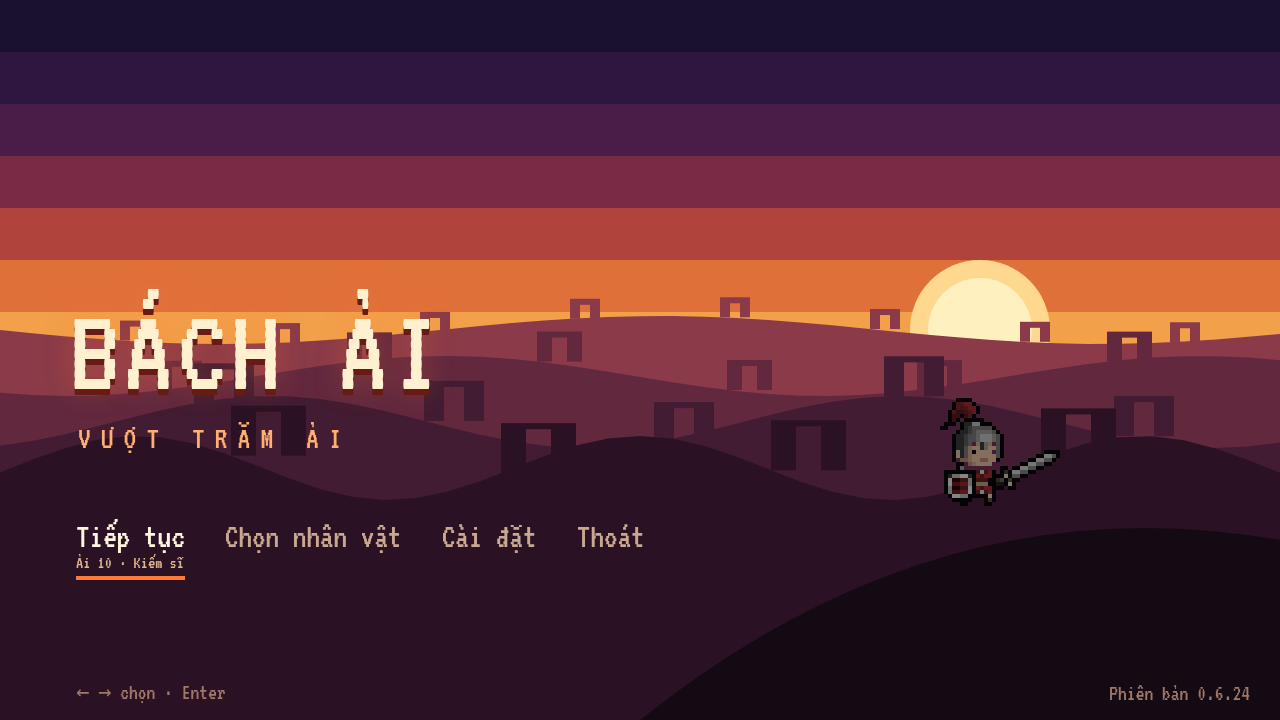
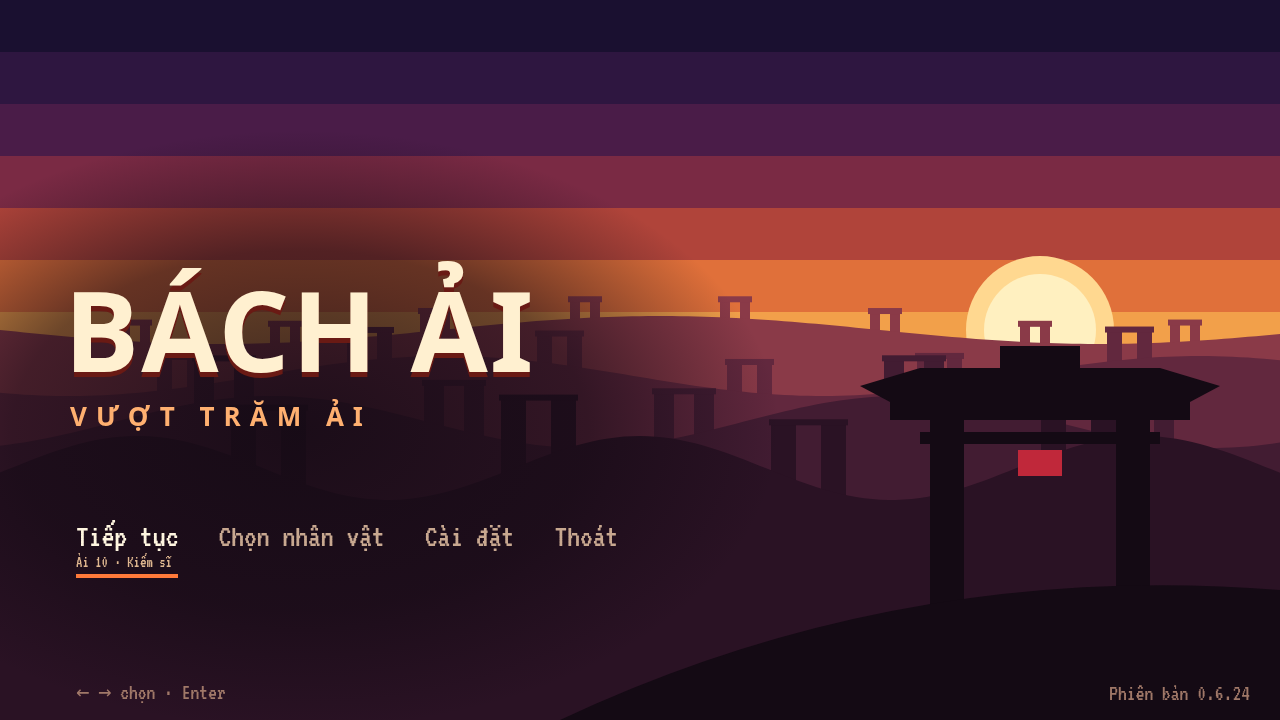
fix(design-web): dusk title with whole letters, a great gate, grounded gates
User 2026-11-26 liked title direction C and noted overlapping, uneven
letters with lost strokes, a lone hero, and far gates floating above
the ground. The title now uses the game's UI font (bold sans, what
Godot will draw) instead of VT323 blown up, over a soft oval wash so no
gate crosses the letters; the menu sits on VT323's 32/16 px grid. The
hero is replaced by one great pass gate on the near hill, against the
sun. Far gates are drawn first with deep legs and the ridge over their
feet. Direction C marked chosen in screens.json.

Verified: page shot at 1280x720 and zoomed x2 (title, menu, gates); a JS name clash with window.top found and fixed on the way

Changed region(s): [[0.0, 0.2444, 0.5625, 0.7028], [0.6562, 0.3361, 0.9688, 0.7028], [0.0625, 0.7333, 0.5, 0.825]]

diff --git a/design-web/games/bach-ai/screen-title-dusk.html b/design-web/games/bach-ai/screen-title-dusk.html
@@ -10,14 +10,14 @@ html, body { width: 1280px; height: 720px; overflow: hidden; background: #000; f
 img { image-rendering: pixelated; }
 #game { position: relative; width: 1280px; height: 720px; overflow: hidden; }
 canvas { position: absolute; inset: 0; }
-.hero { position: absolute; left: 880px; top: 330px; width: 192px; height: 192px; filter: brightness(.55) saturate(.7) drop-shadow(0 0 0 #000); }
-.title { position: absolute; left: 70px; top: 290px; }
-.title h1 { font-size: 124px; font-weight: normal; line-height: 1; letter-spacing: 4px; color: #fff0d0;
-  text-shadow: 0 6px 0 #6a1a14, 0 0 30px #ff7a3a55; }
-.title p { font-size: 32px; letter-spacing: 10px; color: #ffb070; margin: 8px 0 0 8px; }
+/* the game's own UI font (Godot default sans, DejaVu Sans fallback): whole strokes and Vietnamese marks at any size */
+.title { position: absolute; left: 64px; top: 270px; font-family: "Noto Sans", "Open Sans", "DejaVu Sans", sans-serif; }
+.title h1 { font-size: 112px; font-weight: 800; line-height: 1.05; letter-spacing: 2px; color: #fff0d0;
+  text-shadow: 0 5px 0 #6a1a14; }
+.title p { font-size: 26px; font-weight: 600; letter-spacing: 9px; color: #ffb070; margin: 10px 0 0 6px; }
 .menu { position: absolute; left: 76px; top: 520px; display: flex; gap: 40px; }
-.it { font-size: 34px; color: #c8a890; cursor: pointer; padding-bottom: 4px; border-bottom: 4px solid transparent; }
-.it small { display: block; font-size: 18px; color: #e0b890; }
+.it { font-size: 32px; color: #c8a890; cursor: pointer; padding-bottom: 4px; border-bottom: 4px solid transparent; }
+.it small { display: block; font-size: 16px; color: #e0b890; margin-top: 2px; }
 .it.on { color: #fff6e0; border-color: #ff7a3a; }
 .ver { position: absolute; right: 30px; bottom: 16px; font-size: 22px; color: #a07868; }
 .hint { position: absolute; left: 76px; bottom: 16px; font-size: 22px; color: #a07868; }
@@ -26,32 +26,49 @@ canvas { position: absolute; inset: 0; }
 <body>
 <div id="game">
   <canvas id="sky" width="1280" height="720"></canvas>
-  <img class="hero" src="assets/title/knight.png" alt="">
   <div class="title"><h1>BÁCH ẢI</h1><p>VƯỢT TRĂM ẢI</p></div>
   <div class="menu" id="menu"></div>
   <div class="hint">← → chọn · Enter</div>
   <div class="ver">Phiên bản 0.6.24</div>
 </div>
 <script>
-// dusk: banded sky, a low sun, rows of distant pass gates fading toward the horizon, the hero's hill in front
+// dusk: banded sky, a low sun, rows of distant pass gates fading toward the horizon, one great gate on the near hill
 const c = document.getElementById("sky").getContext("2d");
 const bands = ["#1a1030", "#2e1640", "#4a1c48", "#7a2a44", "#b0443a", "#e0703a", "#f2a04a"];
 bands.forEach((col, i) => { c.fillStyle = col; c.fillRect(0, i * 52, 1280, 52); });
-c.fillStyle = "#ffd890"; c.beginPath(); c.arc(980, 330, 70, 0, Math.PI * 2); c.fill();
-c.fillStyle = "#fff0c0"; c.beginPath(); c.arc(980, 330, 52, 0, Math.PI * 2); c.fill();
-for (let row = 0; row < 4; row++) {   // ridges, far to near, each with its line of gate towers
-  const y = 330 + row * 46, col = ["#8a3a48", "#62283e", "#421c32", "#2a1224"][row];
-  c.fillStyle = col; c.beginPath(); c.moveTo(0, 720);
-  for (let x = 0; x <= 1280; x += 32) c.lineTo(x, y + Math.sin(x / (140 - row * 20) + row) * (14 + row * 6));
-  c.lineTo(1280, 720); c.fill();
+c.fillStyle = "#ffd890"; c.beginPath(); c.arc(1040, 330, 74, 0, Math.PI * 2); c.fill();
+c.fillStyle = "#fff0c0"; c.beginPath(); c.arc(1040, 330, 56, 0, Math.PI * 2); c.fill();
+const ridge = (row, x) => 330 + row * 46 + Math.sin(x / (140 - row * 20) + row) * (14 + row * 6);
+for (let row = 0; row < 4; row++) {   // far to near: gates first, legs sunk deep, then the ridge over their feet
+  const col = ["#8a3a48", "#62283e", "#421c32", "#2a1224"][row];
+  c.fillStyle = col;
   for (let k = 0; k < 9 - row; k++) {
     const gx = 120 + k * (150 + row * 40) + row * 37, gh = 16 + row * 10, gw = 10 + row * 5;
-    const gy = y + Math.sin(gx / (140 - row * 20) + row) * (14 + row * 6);
-    c.fillRect(gx, gy - gh, gw, gh); c.fillRect(gx + gw * 2, gy - gh, gw, gh); c.fillRect(gx, gy - gh - 4, gw * 3, 6);
+    const gy = Math.min(ridge(row, gx), ridge(row, gx + gw * 3));   // stand on the lower foot's ground
+    c.fillRect(gx, gy - gh, gw, gh + 40); c.fillRect(gx + gw * 2, gy - gh, gw, gh + 40);
+    c.fillRect(gx - 2, gy - gh - 5, gw * 3 + 4, 6);
   }
+  c.beginPath(); c.moveTo(0, 720);
+  for (let x = 0; x <= 1280; x += 8) c.lineTo(x, ridge(row, x));
+  c.lineTo(1280, 720); c.fill();
 }
-c.fillStyle = "#140a14"; c.beginPath(); c.moveTo(640, 720);   // the near hill under the hero
-c.quadraticCurveTo(940, 480, 1280, 540); c.lineTo(1280, 720); c.fill();
+// the great gate: two pillars and a double roof with upturned eaves, a silhouette against the sun
+const G = "#140a14", gx0 = 930, gx1 = 1150, gTop = 380, gBase = 660;
+c.fillStyle = G;
+c.fillRect(gx0, gTop + 40, 34, gBase - gTop); c.fillRect(gx1 - 34, gTop + 40, 34, gBase - gTop);
+c.fillRect(gx0 - 40, gTop + 22, gx1 - gx0 + 80, 18);                 // lower beam
+c.fillRect(gx0 - 10, gTop + 52, gx1 - gx0 + 20, 12);                 // tie beam
+c.beginPath(); c.moveTo(gx0 - 70, gTop + 6); c.lineTo(gx0 - 40, gTop + 22); c.lineTo(gx1 + 40, gTop + 22);
+c.lineTo(gx1 + 70, gTop + 6); c.lineTo(gx1 + 10, gTop - 12); c.lineTo(gx0 - 10, gTop - 12); c.fill();   // roof, eaves up
+c.fillRect(gx0 + 70, gTop - 34, gx1 - gx0 - 140, 24);                // the crest
+c.fillStyle = "#c0283a"; c.fillRect((gx0 + gx1) / 2 - 22, gTop + 70, 44, 26);   // a red plaque
+c.fillStyle = G; c.beginPath(); c.moveTo(560, 720);                 // the near hill
+c.quadraticCurveTo(900, 560, 1280, 590); c.lineTo(1280, 720); c.fill();
+// a dark wash behind the title and menu so no gate crosses the letters
+c.save(); c.translate(300, 430); c.scale(1.6, 1);   // an oval wash, fading on every side
+const wash = c.createRadialGradient(0, 0, 0, 0, 0, 300);
+wash.addColorStop(0, "#140a14d9"); wash.addColorStop(0.6, "#140a1499"); wash.addColorStop(1, "#140a1400");
+c.fillStyle = wash; c.fillRect(-300, -300, 600, 600); c.restore();
 const M = [["Tiếp tục", "Ải 10 · Kiếm sĩ"], ["Chọn nhân vật", ""], ["Cài đặt", ""], ["Thoát", ""]];
 let sel = 0;
 const menu = document.getElementById("menu");

diff --git a/design-web/games/bach-ai/specs/title.md b/design-web/games/bach-ai/specs/title.md
@@ -29,3 +29,11 @@ cuộn giấy, có trạng thái "nhấn phím bất kỳ") đã xoá; màn tron
 | C. Hoàng hôn trước trận | `screen-title-dusk.html` | cảnh rộng: trời hoàng hôn, các dãy cổng ải xa dần, nhân vật trên đồi; tên lớn lệch trái; menu chữ ngang, ←/→ |
 
 Cả ba bỏ: hai nhân vật trên bệ, cột nút giữa, cổng / dải băng / cuộn giấy của bản cũ.
+
+## Góp ý của người dùng (2026-11-26) và sửa
+
+Người dùng thích hướng C, chỉ ra: chữ chồng lấn, chưa đều, mất nét; chỉ có một nhân vật; cổng ở xa như lơ lửng. Đã sửa:
+- Tên dùng font chữ của game (sans đậm, như Godot sẽ vẽ) thay VT323 phóng to: nét liền, dấu đúng chỗ; một vệt tối
+  hình bầu dục sau chữ và menu để không cổng nào cắt qua chữ; menu ở cỡ 32 / 16 px của VT323 (bội số lưới).
+- Bỏ nhân vật; thay bằng **một cổng ải lớn** trên đồi gần (hai cột, mái cong, biển đỏ), in bóng lên mặt trời.
+- Các cổng xa vẽ trước, chân cắm sâu, rồi mới vẽ sườn đồi đè lên: chân cổng nằm trong đất.
